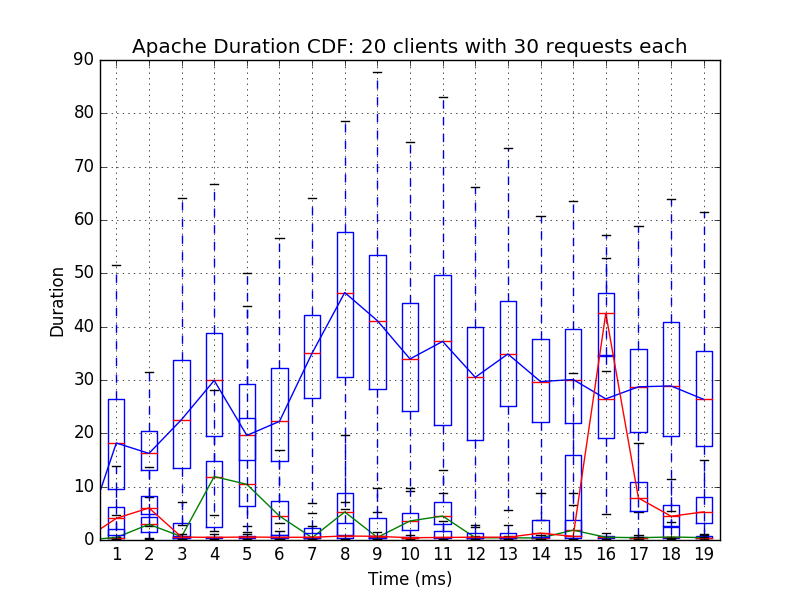
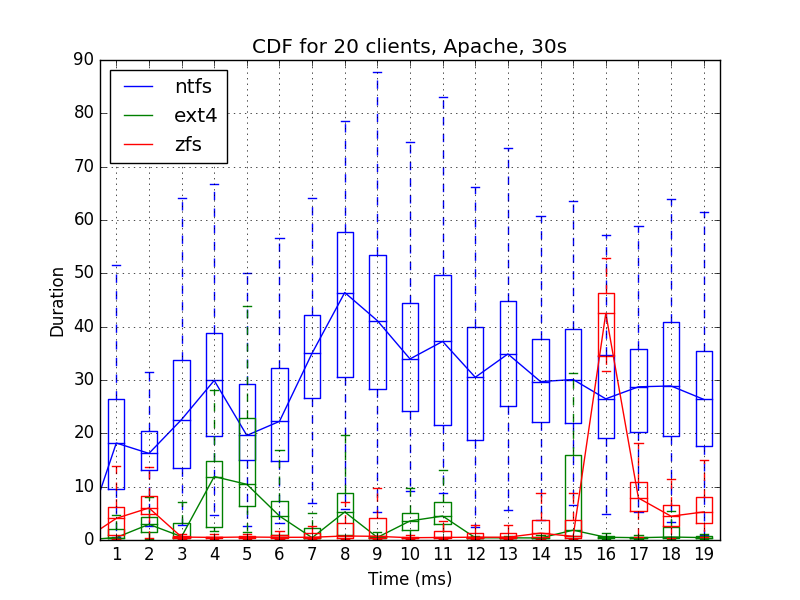
boxplot coloring

diff --git a/output.py b/output.py
@@ -20,6 +20,7 @@ GRAPH_PATH = 'graphs'
 # Because thanks, windows
 FILE_SEPERATOR = '\\' if os.name == 'nt' else '/'
 
+
 class ResultRow():
 
     def __init__(self, raw):
@@ -71,7 +72,7 @@ def latency_scatter(result, output_subfolder=None):
     plot.xlim([0, result.end - result.start])
     plot.ylim([0, result.max_value])
 
-    plot.title('{} on {}: {} clients making {} requests'.format(result.pretty_name, result.fs, result.clients, result.requests))
+    plot.title('{} clients, {}, {}, {}s'.format(result.clients, result.pretty_name, result.fs, result.requests))
     plot.ylabel('Latency (ms)')
     plot.xlabel('Request Send Time (ms from start)')
 
@@ -87,7 +88,7 @@ def latency_cdf(result, output_subfolder=None):
     plot.ylim([0, 1])
     plot.grid()
 
-    plot.title('{} on {}: {} clients making {} requests'.format(result.pretty_name, result.fs, result.clients, result.requests))
+    plot.title('{} clients, {}, {}, {}s'.format(result.clients, result.pretty_name, result.fs, result.requests))
     plot.ylabel('Count')
     plot.xlabel('Latency (ms)')
 
@@ -119,7 +120,7 @@ def aggregate_cdf(results, output_subfolder=None):
 
         plot.ylabel('Count')
         plot.xlabel('Latency (ms)')
-        plot.title('{} Duration CDF: {} clients with {} requests each'.format(test_group[0].pretty_name, test_group[0].clients, test_group[0].requests))
+        plot.title('CDF for {} clients, {}, {}s'.format(test_group[0].clients, test_group[0].pretty_name, test_group[0].requests))
         plot.legend(loc='lower right')
 
         plot.xlim([0, max(map(lambda x: x.max_value, test_group))])
@@ -146,16 +147,20 @@ def aggregate_boxplot(results, output_subfolder=None):
             binned = [map(lambda x: x.diff_time, y) for y in binned]
             medians = [numpy.median(x) for x in binned]
 
-            plot.boxplot(binned, 0, '')
-            plot.plot([0] + medians)
+            line = plot.plot([0] + medians, label=fs.fs)
+            color = line[0].get_color()
+            boxes = plot.boxplot(binned, 0, '')
+
+            plot.setp(boxes['boxes'], color=line[0].get_color())
+            plot.setp(boxes['whiskers'], color=color)
+            plot.setp(boxes['caps'], color=color)
+            plot.setp(boxes['fliers'], color=color, marker='o')
+            plot.setp(boxes['medians'], color=color)
 
         plot.ylabel('Duration')
         plot.xlabel('Time (ms)')
-        plot.title('{} Duration CDF: {} clients with {} requests each'.format(test_group[0].pretty_name, test_group[0].clients, test_group[0].requests))
-        plot.legend(loc='lower right')
-
-        # plot.xlim([0, max(map(lambda x: x.max_value, test_group))])
-        # plot.ylim([0, 1.05])
+        plot.title('CDF for {} clients, {}, {}s'.format(test_group[0].clients, test_group[0].pretty_name, test_group[0].requests))
+        plot.legend(loc='upper left')
         plot.grid()
 
         # show_or_save(result, output_subfolder)
@@ -190,41 +195,61 @@ def show_or_save(result, output_subfolder):
         plot.savefig(os.path.join(output_subfolder, result.fs + '-' + result.name))
 
 
-def test_bars():
-    t = MacroResults('ext4', 'apache', os.path.join('results', 'ext4', 'apache', '10c-10r-shared'))
-    bins = numpy.linspace(t.start, t.end, 20)
-    binned = [filter(lambda x: maxx > x.start_time > minn, t.lines) for (minn, maxx) in zip(bins[:-1], bins[1:])]
-    binned = [map(lambda x: x.diff_time, y) for y in binned]
-    medians = [numpy.median(x) for x in binned]
+def test_weird():
+    result = MacroResults('ntfs', 'apache', os.path.join('results', 'ntfs', 'apache', '1c-30r-unique'))
 
-    plot.boxplot(binned, 0, '')
-    plot.plot([0] + medians)
+    for l in result.lines:
+        print l.raw
+
+    return
+
+    time = [x.start_time - result.start for x in result.lines]
+    lat = [x.diff_time for x in result.lines]
+
+    plot.scatter(time, lat, label="N=" + " M=")
+    plot.xlim([0, result.end - result.start])
+    plot.ylim([0, result.max_value])
+
+    plot.title('{} on {}: {} clients making {} requests'.format(result.pretty_name, result.fs, result.clients, result.requests))
+    plot.ylabel('Latency (ms)')
+    plot.xlabel('Request Send Time (ms from start)')
+
     plot.show()
+    plot.clf()
+
+    # bins = numpy.linspace(t.start, t.end, 20)
+    # binned = [filter(lambda x: maxx > x.start_time > minn, t.lines) for (minn, maxx) in zip(bins[:-1], bins[1:])]
+    # binned = [map(lambda x: x.diff_time, y) for y in binned]
+    # medians = [numpy.median(x) for x in binned]
+
+    # plot.boxplot(binned, 0, '')
+    # plot.plot([0] + medians)
+    # plot.show()
 
 
 def graph(all_data):
     for test in ['apache', 'go-pg']:
         data = filter(lambda x: x.test == test, all_data)
 
-        # Individual scatter plots
-        p = os.path.join(GRAPH_PATH, test, 'scatter')
-        runner.cleardir(p)
-        [latency_scatter(d, p) for d in data]
+        # # Individual scatter plots
+        # p = os.path.join(GRAPH_PATH, test, 'scatter')
+        # runner.cleardir(p)
+        # [latency_scatter(d, p) for d in data]
 
-        # Individual CDFs
-        p = os.path.join(GRAPH_PATH, test, 'cdf')
-        runner.cleardir(p)
-        [latency_cdf(d, p) for d in data]
+        # # Individual CDFs
+        # p = os.path.join(GRAPH_PATH, test, 'cdf')
+        # runner.cleardir(p)
+        # [latency_cdf(d, p) for d in data]
 
-        # Individual Boxplots
-        p = os.path.join(GRAPH_PATH, test, 'boxplot')
-        runner.cleardir(p)
-        [latency_boxplot(d, p) for d in data]
+        # # Individual Boxplots
+        # p = os.path.join(GRAPH_PATH, test, 'boxplot')
+        # runner.cleardir(p)
+        # [latency_boxplot(d, p) for d in data]
 
-        # Aggregate CDFs
-        p = os.path.join(GRAPH_PATH, test, 'aggregate-cdf')
-        runner.cleardir(p)
-        aggregate_cdf(data, p)
+        # # Aggregate CDFs
+        # p = os.path.join(GRAPH_PATH, test, 'aggregate-cdf')
+        # runner.cleardir(p)
+        # aggregate_cdf(data, p)
 
         # Aggregate Boxplotss
         p = os.path.join(GRAPH_PATH, test, 'aggregate-boxplot')
@@ -235,4 +260,4 @@ def graph(all_data):
 if __name__ == '__main__':
     all_data = load_macrobenchmarks()
     graph(all_data)
-    # test_bars()
+    # test_weird()
